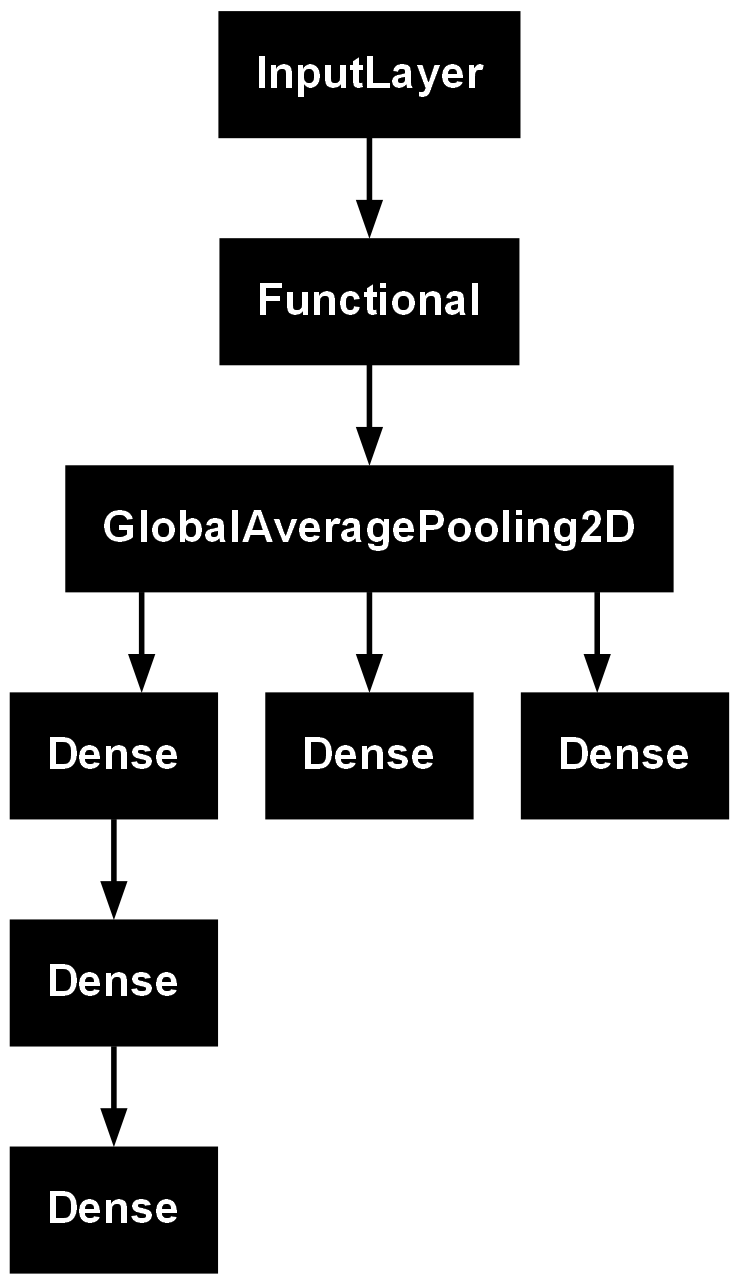
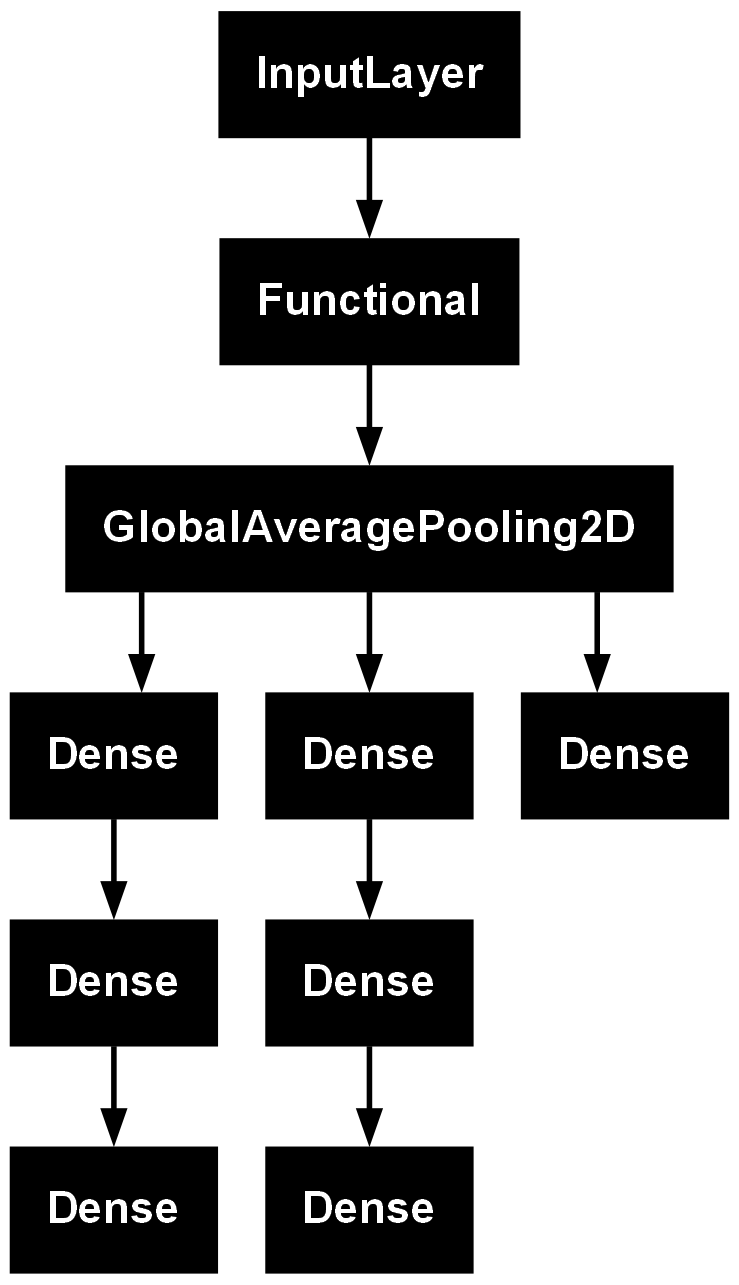
* version 2

Changed region(s): [[0.3424, 0.6226, 0.6536, 0.9961]]

diff --git a/FaceIdentifier.py b/FaceIdentifier.py
@@ -51,7 +51,9 @@ def FaceIdentifier(input_shape=(128, 128, 3), dropout_rate=0.25):
     age_output = layers.Dense(32, activation='relu', name='age_2')(age_output)
     age_output = layers.Dense(1, activation='linear', name='age_output')(age_output)
 
-    gender_output = layers.Dense(3, activation='softmax', name='gender_output')(x)
+    gender_output = layers.Dense(64, activation='sigmoid', name='gender_1')(x)
+    gender_output = layers.Dense(32, activation='sigmoid', name='gender_2')(gender_output)
+    gender_output = layers.Dense(3, activation='softmax', name='gender_output')(gender_output)
 
     model = models.Model(inputs=inputs, outputs={'face_output' : face_output,
                                                  'age_output' : age_output,
